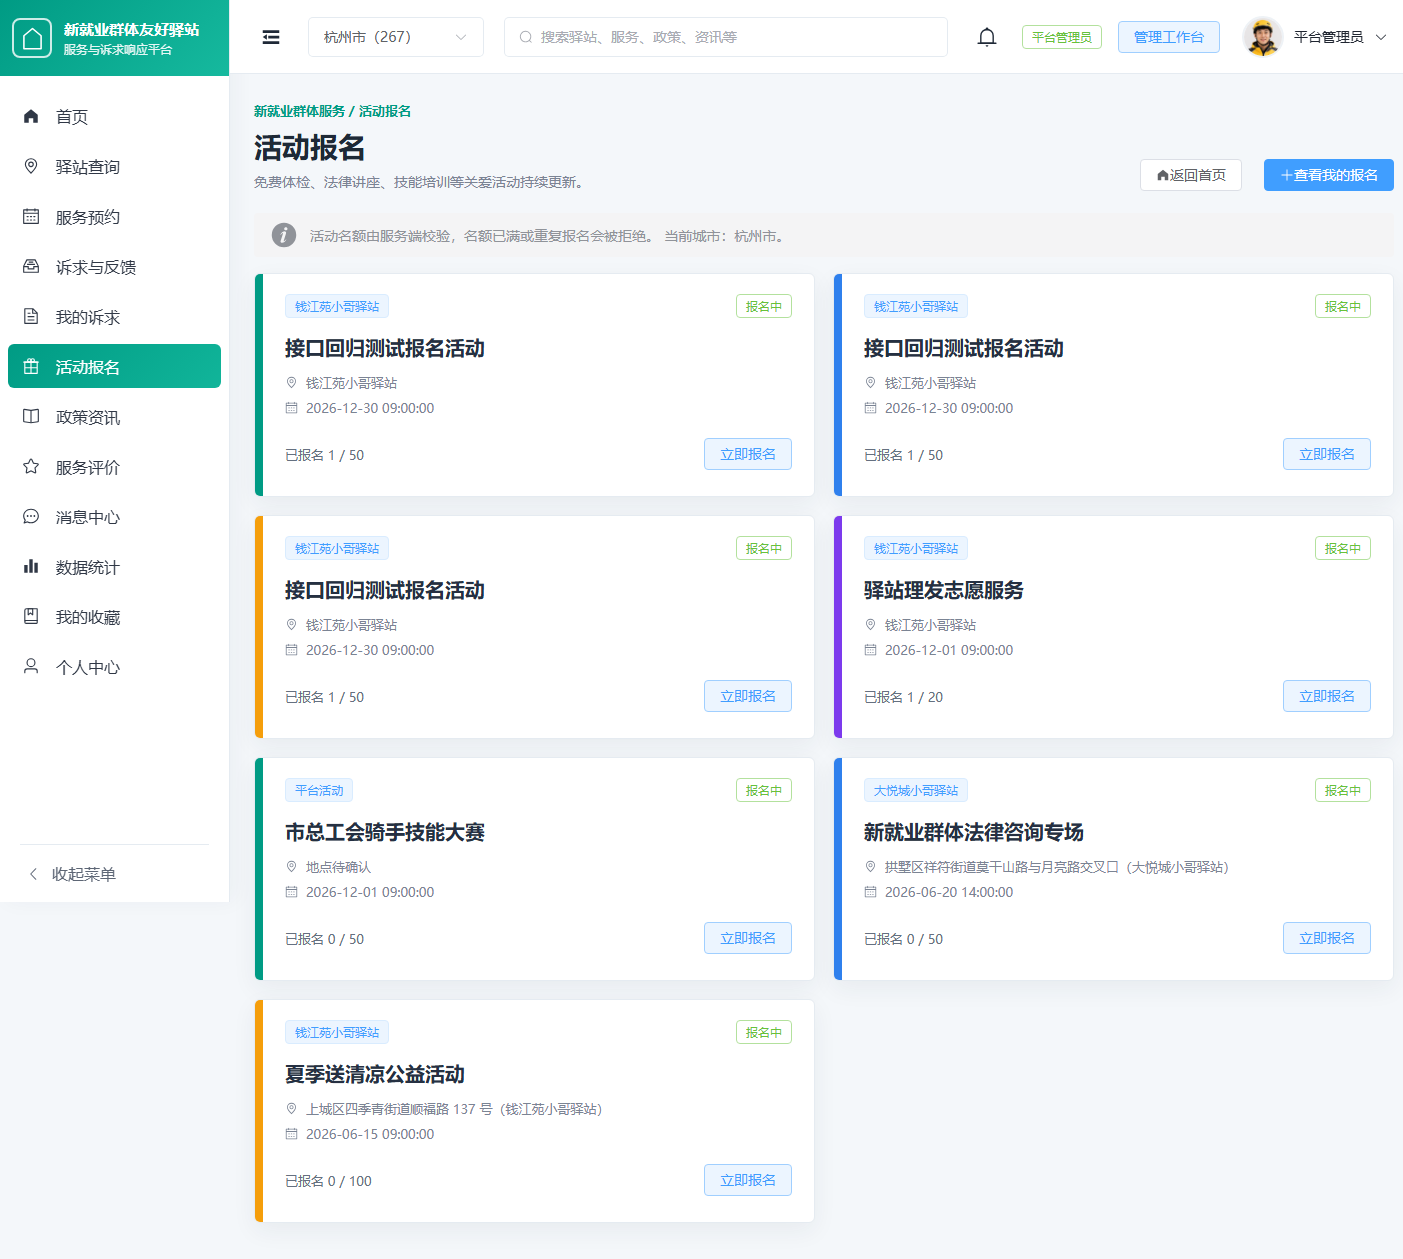
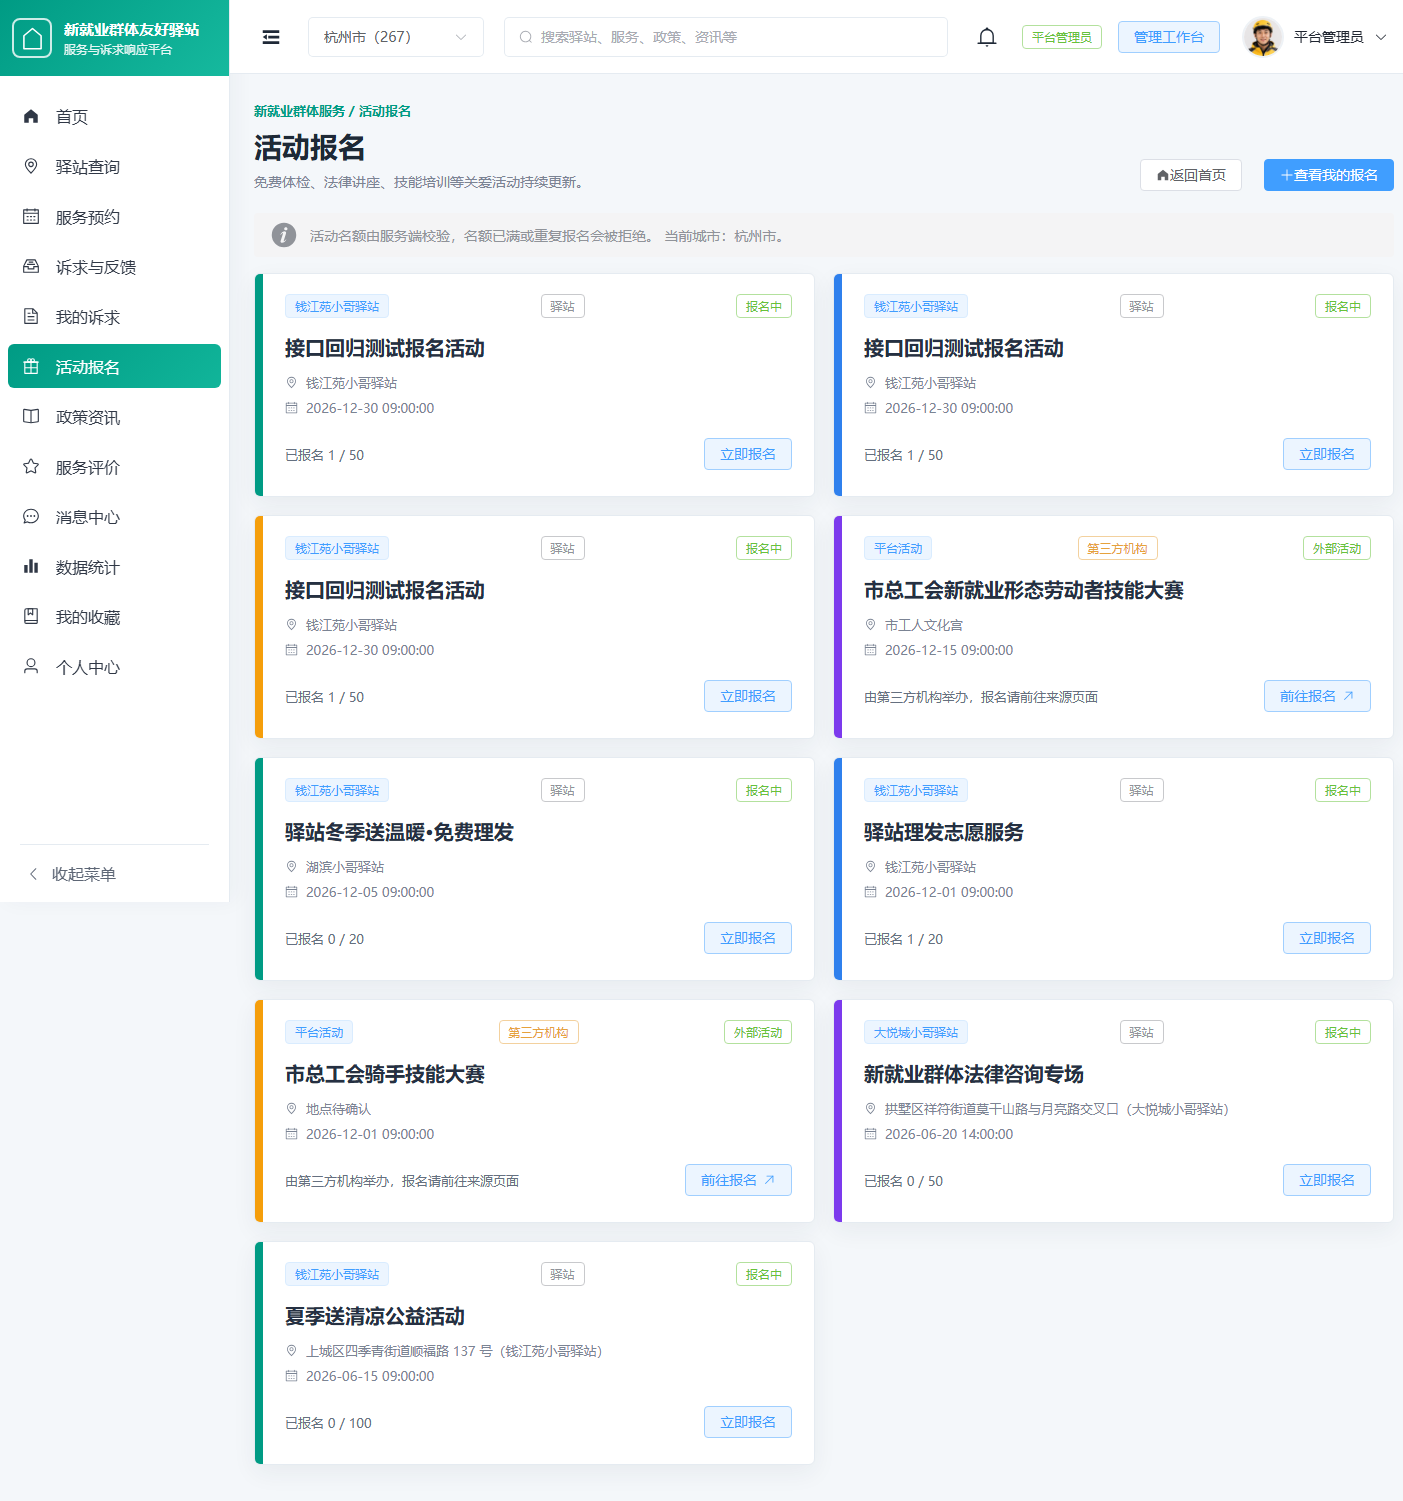
feat: 活动模块前端——报名表单、第三方跳转、管理端报名审核
用户端
- 活动卡片区分承办方：「驿站」/「平台管理员」/「第三方机构」标签
- 第三方活动改为「前往报名 ↗」跳转按钮，并注明「由第三方机构举办，报名请前往来源页面」，
  不再显示站内报名按钮与名额
- 站内活动改为打开报名表单：姓名与电话必填（承办方要靠这些联系报名人）、
  备注选填；弹窗顶部说明「驿站会根据这些信息联系你，确认时间与安排」，
  姓名与电话默认带出个人中心已有信息
- 第三方活动缺少链接时给出明确提示，而不是静默无反应

管理端（报名记录）
- 表格新增：报名人姓名（优先用报名时填的 contactName）、备注、
  审核反馈（未处理显示灰色「尚未反馈」）、操作列
- 联系电话改为可点击的 tel: 链接，方便直接拨号
- 新增「联系与审核」弹窗：已联系 / 审核通过 / 审核未通过三选一 +
  给报名人的反馈；未通过时前端也拦一次并提示必须写原因
- 报名状态配色：通过绿、未通过红、已联系橙、待联系灰

验证：后端 97/97、前端 53/53、接口回归 119/119、浏览器走查 45/45

diff --git a/frontend/src/views/admin/AdminActivities.vue b/frontend/src/views/admin/AdminActivities.vue
@@ -86,26 +86,80 @@
         <span class="admin-toolbar-total">共 {{ signups.length }} 条报名</span>
       </div>
       <el-table :data="signups" v-loading="signupLoading" stripe empty-text="暂无报名记录">
-        <el-table-column prop="id" label="编号" width="80" />
-        <el-table-column label="活动名称" min-width="200" show-overflow-tooltip>
+        <el-table-column prop="id" label="编号" width="70" />
+        <el-table-column label="活动名称" min-width="180" show-overflow-tooltip>
           <template #default="{ row }">{{ textOf(row.activityTitle) }}</template>
         </el-table-column>
-        <el-table-column label="报名人" width="140">
-          <template #default="{ row }">{{ textOf(row.userName) }}</template>
+        <!-- 报名人姓名与电话是承办方联系报名人的依据，直接列出，不必再点开 -->
+        <el-table-column label="报名人" width="110">
+          <template #default="{ row }">{{ textOf(row.contactName || row.userName) }}</template>
         </el-table-column>
-        <el-table-column label="联系电话" width="150">
-          <template #default="{ row }">{{ textOf(row.phone) }}</template>
-        </el-table-column>
-        <el-table-column label="报名状态" width="140">
+        <el-table-column label="联系电话" width="140">
           <template #default="{ row }">
-            <el-tag type="success" effect="plain">{{ textOf(row.statusLabel) }}</el-tag>
+            <a v-if="row.phone" :href="`tel:${row.phone}`" class="signup-phone">{{ row.phone }}</a>
+            <span v-else>—</span>
           </template>
         </el-table-column>
-        <el-table-column label="报名时间" width="180">
-          <template #default="{ row }">{{ textOf(row.createTime) }}</template>
+        <el-table-column label="备注" min-width="140" show-overflow-tooltip>
+          <template #default="{ row }">{{ textOf(row.remark) || "—" }}</template>
+        </el-table-column>
+        <el-table-column label="报名状态" width="130">
+          <template #default="{ row }">
+            <el-tag :type="signupStatusTag(row.status)" effect="plain">{{ textOf(row.statusLabel) }}</el-tag>
+          </template>
+        </el-table-column>
+        <el-table-column label="审核反馈" min-width="180" show-overflow-tooltip>
+          <template #default="{ row }">
+            <span v-if="row.reviewNote">{{ row.reviewNote }}</span>
+            <span v-else class="muted">尚未反馈</span>
+          </template>
+        </el-table-column>
+        <el-table-column label="操作" width="150" fixed="right">
+          <template #default="{ row }">
+            <el-button size="small" @click="openReview(row)">联系与审核</el-button>
+          </template>
         </el-table-column>
       </el-table>
     </template>
+
+    <!-- 承办方处理报名：联系、审核通过或未通过，并给出给报名人的反馈 -->
+    <el-dialog v-model="reviewVisible" title="联系与审核报名" width="520px">
+      <el-descriptions v-if="reviewTarget" :column="1" border size="small" class="admin-dialog-meta">
+        <el-descriptions-item label="活动">{{ textOf(reviewTarget.activityTitle) }}</el-descriptions-item>
+        <el-descriptions-item label="报名人">{{ textOf(reviewTarget.contactName || reviewTarget.userName) }}</el-descriptions-item>
+        <el-descriptions-item label="联系电话">
+          <a v-if="reviewTarget.phone" :href="`tel:${reviewTarget.phone}`" class="signup-phone">{{ reviewTarget.phone }}</a>
+          <span v-else>—</span>
+        </el-descriptions-item>
+        <el-descriptions-item label="备注">{{ textOf(reviewTarget.remark) || "—" }}</el-descriptions-item>
+        <el-descriptions-item label="当前状态">{{ textOf(reviewTarget.statusLabel) }}</el-descriptions-item>
+      </el-descriptions>
+      <el-form label-position="top">
+        <el-form-item label="处理结果" required>
+          <el-radio-group v-model="reviewForm.status">
+            <el-radio-button value="CONTACTED">已联系</el-radio-button>
+            <el-radio-button value="APPROVED">审核通过</el-radio-button>
+            <el-radio-button value="REJECTED">审核未通过</el-radio-button>
+          </el-radio-group>
+        </el-form-item>
+        <el-form-item label="给报名人的反馈" :required="reviewForm.status === 'REJECTED'">
+          <el-input
+            v-model="reviewForm.reviewNote"
+            type="textarea"
+            :rows="3"
+            maxlength="300"
+            show-word-limit
+            :placeholder="reviewForm.status === 'REJECTED'
+              ? '未通过必须说明原因，报名人会看到这段说明'
+              : '例如：已电话确认，周六上午 9 点在驿站集合，记得带身份证'"
+          />
+        </el-form-item>
+      </el-form>
+      <template #footer>
+        <el-button @click="reviewVisible = false">取消</el-button>
+        <el-button type="primary" :loading="reviewSubmitting" @click="submitReview">提交</el-button>
+      </template>
+    </el-dialog>
 
     <el-dialog v-model="dialogVisible" :title="editingId ? '编辑活动' : '新增活动'" width="620px">
       <el-form ref="formRef" :model="form" :rules="rules" label-width="94px">
@@ -182,10 +236,10 @@ import {
   getAdminActivityPage,
   updateActivity
 } from "../../api/content";
-import { getAdminSignups } from "../../api/workflow";
+import { getAdminSignups, reviewSignup } from "../../api/workflow";
 import { getStationPage } from "../../api/station";
 import { errorMessage } from "../../api/http";
-import { contentStatusLabel, contentStatusTag, numberText, textOf } from "./admin-shared";
+import { contentStatusLabel, contentStatusTag, numberText, signupStatusTag, textOf } from "./admin-shared";
 
 const props = defineProps({
   /** 初始展示的区块：activities（活动列表）或 signups（报名记录）。 */
@@ -202,6 +256,44 @@ const total = ref(0);
 const query = reactive({ current: 1, size: 10, status: "", keyword: "" });
 
 const signupLoading = ref(false);
+
+/** 处理报名的弹窗：联系、审核通过或未通过，并给出反馈。 */
+const reviewVisible = ref(false);
+const reviewSubmitting = ref(false);
+const reviewTarget = ref(null);
+const reviewForm = reactive({ status: "CONTACTED", reviewNote: "" });
+
+function openReview(row) {
+  reviewTarget.value = row;
+  // 已审核过的再次打开时沿用原状态，避免手滑把结论改掉
+  reviewForm.status = ["CONTACTED", "APPROVED", "REJECTED"].includes(row.status) ? row.status : "CONTACTED";
+  reviewForm.reviewNote = row.reviewNote || "";
+  reviewVisible.value = true;
+}
+
+async function submitReview() {
+  const target = reviewTarget.value;
+  if (!target) return;
+  if (reviewForm.status === "REJECTED" && !reviewForm.reviewNote.trim()) {
+    ElMessage.warning("审核未通过时请填写原因，报名人会看到这段说明");
+    return;
+  }
+  reviewSubmitting.value = true;
+  try {
+    await reviewSignup({
+      id: target.id,
+      status: reviewForm.status,
+      reviewNote: reviewForm.reviewNote.trim()
+    });
+    reviewVisible.value = false;
+    ElMessage.success("已提交处理结果，报名人可以看到反馈");
+    await loadSignups();
+  } catch (error) {
+    ElMessage.error(errorMessage(error, "处理失败"));
+  } finally {
+    reviewSubmitting.value = false;
+  }
+}
 const signups = ref([]);
 
 const stations = ref([]);

diff --git a/frontend/src/views/ModuleView.vue b/frontend/src/views/ModuleView.vue
@@ -421,26 +421,69 @@
           <div class="activity-body">
             <div class="activity-top">
               <el-tag effect="light">{{ activity.stationName || "平台活动" }}</el-tag>
+              <!-- 承办方：驿站 / 平台管理员 / 第三方机构。第三方活动只在站内展示并跳转。 -->
+              <el-tag :type="activity.organizerType === 'EXTERNAL' ? 'warning' : 'info'" effect="plain">
+                {{ activity.organizerLabel || "驿站" }}
+              </el-tag>
               <el-tag :type="activity.remaining > 0 ? 'success' : 'info'" effect="plain">
-                {{ activity.remaining > 0 ? "报名中" : "已满" }}
+                {{ activity.organizerType === 'EXTERNAL' ? "外部活动" : (activity.remaining > 0 ? "报名中" : "已满") }}
               </el-tag>
             </div>
             <h2>{{ activity.title }}</h2>
             <p><el-icon><Location /></el-icon>{{ activity.address || activity.stationName || "地点待确认" }}</p>
             <p><el-icon><Calendar /></el-icon>{{ activity.activityTime }}</p>
             <div class="activity-footer">
-              <span>已报名 {{ activity.signedCount }} / {{ activity.maxCount }}</span>
+              <span v-if="activity.organizerType === 'EXTERNAL'">由第三方机构举办，报名请前往来源页面</span>
+              <span v-else>已报名 {{ activity.signedCount }} / {{ activity.maxCount }}</span>
+              <!-- 第三方活动不提供站内报名：报名与审核都在对方平台，
+                   在站内收报名没人能处理。这里改为跳转链接。 -->
               <el-button
+                v-if="activity.organizerType === 'EXTERNAL'"
+                type="primary"
+                plain
+                @click="openExternalActivity(activity)"
+              >前往报名<el-icon class="el-icon--right"><TopRight /></el-icon></el-button>
+              <el-button
+                v-else
                 :disabled="activity.remaining <= 0 || signedActivityIds.includes(activity.id)"
                 type="primary"
                 plain
-                @click="signup(activity)"
+                @click="openSignup(activity)"
               >{{ signedActivityIds.includes(activity.id) ? "已报名" : "立即报名" }}</el-button>
             </div>
           </div>
         </article>
         <el-empty v-if="!loading.activities && activityItems.length === 0" description="暂无可报名活动" />
       </div>
+
+      <!-- 报名表单：姓名与电话必填，承办方要靠这些联系报名人 -->
+      <el-dialog v-model="signupVisible" title="填写报名信息" width="460px">
+        <p class="dialog-hint">
+          驿站会根据这些信息联系你，确认时间与安排。请留常用的电话。
+        </p>
+        <el-form label-position="top">
+          <el-form-item label="姓名" required>
+            <el-input v-model="signupForm.contactName" maxlength="50" placeholder="请填写真实姓名，方便驿站称呼与核对" />
+          </el-form-item>
+          <el-form-item label="联系电话" required>
+            <el-input v-model="signupForm.phone" maxlength="30" placeholder="例如：13800002088" />
+          </el-form-item>
+          <el-form-item label="备注（选填）">
+            <el-input
+              v-model="signupForm.remark"
+              type="textarea"
+              :rows="3"
+              maxlength="255"
+              show-word-limit
+              placeholder="方便的时间、同行人数等，驿站会参考"
+            />
+          </el-form-item>
+        </el-form>
+        <template #footer>
+          <el-button @click="signupVisible = false">取消</el-button>
+          <el-button type="primary" :loading="signupSubmitting" @click="submitSignup">提交报名</el-button>
+        </template>
+      </el-dialog>
     </template>
 
     <!-- ------------------------------------------------------ 政策资讯 -->
@@ -984,6 +1027,11 @@ const appealEvaluationForm = reactive({ appealId: null, score: 5, content: "" })
 
 const activityItems = ref([]);
 const signedActivityIds = ref([]);
+/** 报名表单：姓名与电话必填，承办方要靠这些联系报名人。 */
+const signupVisible = ref(false);
+const signupSubmitting = ref(false);
+const signupTarget = ref(null);
+const signupForm = reactive({ contactName: "", phone: "", remark: "" });
 const accentTones = ["green", "blue", "orange", "purple"];
 
 const newsFilter = ref("全部");
@@ -1505,14 +1553,58 @@ async function loadActivities() {
   }
 }
 
-async function signup(activity) {
+/**
+ * 打开报名表单。
+ *
+ * 报名信息要交给承办方去联系报名人，所以姓名与电话必填、备注选填，
+ * 不再是一键报名——那样驿站拿到一条没有联系方式的记录，等于没法联系。
+ */
+function openSignup(activity) {
+  signupTarget.value = activity;
+  signupForm.contactName = userStore.profile?.realName || userStore.profile?.nickname || "";
+  signupForm.phone = userStore.profile?.phone || "";
+  signupForm.remark = "";
+  signupVisible.value = true;
+}
+
+/** 第三方活动的跳转：只做展示与跳转，报名在对方平台完成。 */
+function openExternalActivity(activity) {
+  const url = String(activity.externalUrl || "").trim();
+  if (!url) {
+    ElMessage.warning("该活动未提供报名链接，请联系平台管理员");
+    return;
+  }
+  window.open(url, "_blank", "noopener,noreferrer");
+}
+
+async function submitSignup() {
+  const activity = signupTarget.value;
+  if (!activity) return;
+  if (!signupForm.contactName.trim()) {
+    ElMessage.warning("请填写报名人姓名");
+    return;
+  }
+  if (!signupForm.phone.trim()) {
+    ElMessage.warning("请填写联系电话，承办方需要据此联系你");
+    return;
+  }
+  signupSubmitting.value = true;
   try {
-    await signupActivity({ activityId: activity.id, title: activity.title });
+    await signupActivity({
+      activityId: activity.id,
+      title: activity.title,
+      contactName: signupForm.contactName.trim(),
+      phone: signupForm.phone.trim(),
+      remark: signupForm.remark.trim()
+    });
     signedActivityIds.value = [...signedActivityIds.value, activity.id];
-    ElMessage.success(`已提交「${activity.title}」的报名申请`);
+    signupVisible.value = false;
+    ElMessage.success(`已提交「${activity.title}」的报名，承办方会联系你`);
     await loadActivities();
   } catch (error) {
     ElMessage.error(errorMessage(error, "报名失败"));
+  } finally {
+    signupSubmitting.value = false;
   }
 }
 

diff --git a/frontend/src/styles.css b/frontend/src/styles.css
@@ -949,6 +949,32 @@ button {
 }
 
 /* 政策资讯的筛选组（来源 + 平台 + 分类） */
+/* 管理端报名表里的电话：可点击直接拨号 */
+.signup-phone {
+  color: var(--primary-dark);
+  font-variant-numeric: tabular-nums;
+  text-decoration: none;
+}
+
+.signup-phone:hover {
+  text-decoration: underline;
+}
+
+.muted {
+  color: var(--muted);
+}
+
+/* 弹窗里的说明文字：解释「为什么要填这个」 */
+.dialog-hint {
+  margin: 0 0 14px;
+  padding: 10px 12px;
+  background: var(--primary-soft);
+  border-radius: 7px;
+  color: #2b4a52;
+  font-size: 13px;
+  line-height: 1.6;
+}
+
 .news-filters {
   display: flex;
   flex-wrap: wrap;
@@ -2272,7 +2298,33 @@ button {
     grid-row: 1;
   }
 
-  .news-filters {
+  /* 管理端报名表里的电话：可点击直接拨号 */
+.signup-phone {
+  color: var(--primary-dark);
+  font-variant-numeric: tabular-nums;
+  text-decoration: none;
+}
+
+.signup-phone:hover {
+  text-decoration: underline;
+}
+
+.muted {
+  color: var(--muted);
+}
+
+/* 弹窗里的说明文字：解释「为什么要填这个」 */
+.dialog-hint {
+  margin: 0 0 14px;
+  padding: 10px 12px;
+  background: var(--primary-soft);
+  border-radius: 7px;
+  color: #2b4a52;
+  font-size: 13px;
+  line-height: 1.6;
+}
+
+.news-filters {
     width: 100%;
   }
 

diff --git a/frontend/src/views/admin/admin-shared.js b/frontend/src/views/admin/admin-shared.js
@@ -110,6 +110,14 @@ export function appealStatusTag(status) {
   return "danger";
 }
 
+/** 报名状态标签色：通过为成功、未通过为危险、已联系为进行中。 */
+export function signupStatusTag(status) {
+  if (status === "APPROVED") return "success";
+  if (status === "REJECTED") return "danger";
+  if (status === "CONTACTED") return "warning";
+  return "info";
+}
+
 /** 驿站状态标签色。 */
 export function stationStatusTag(status) {
   if (status === "OPEN") return "success";

diff --git a/frontend/src/api/workflow.js b/frontend/src/api/workflow.js
@@ -63,6 +63,14 @@ export function getMySignups() {
   return request({ url: "/activity/my" });
 }
 
+/**
+ * 承办方处理报名：联系 / 审核通过 / 审核未通过，并给出给报名人的反馈。
+ * 审核未通过时后端要求填写原因。
+ */
+export function reviewSignup(data) {
+  return request({ url: "/activity/signup/review", method: "put", data });
+}
+
 export function getAdminSignups() {
   return request({ url: "/activity/admin/signups" });
 }
